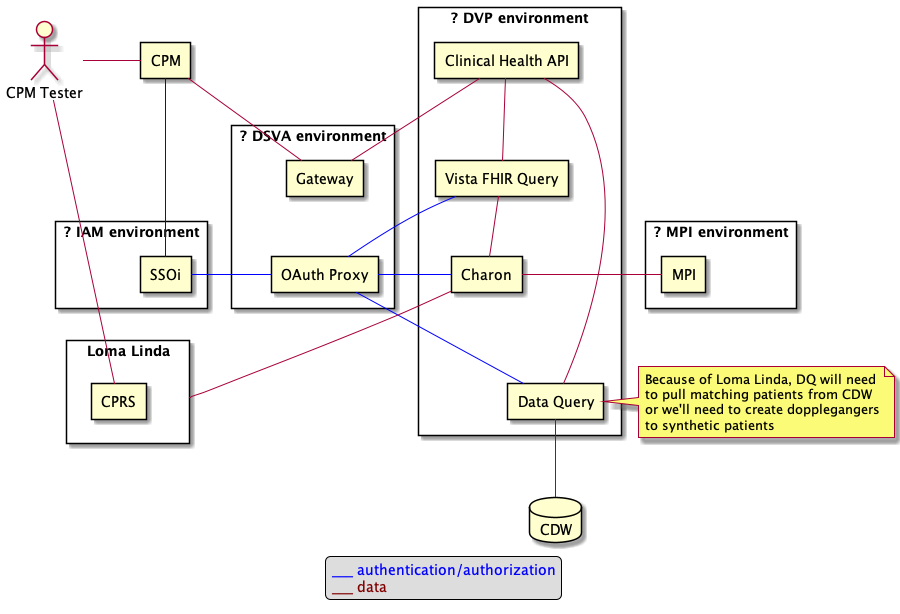
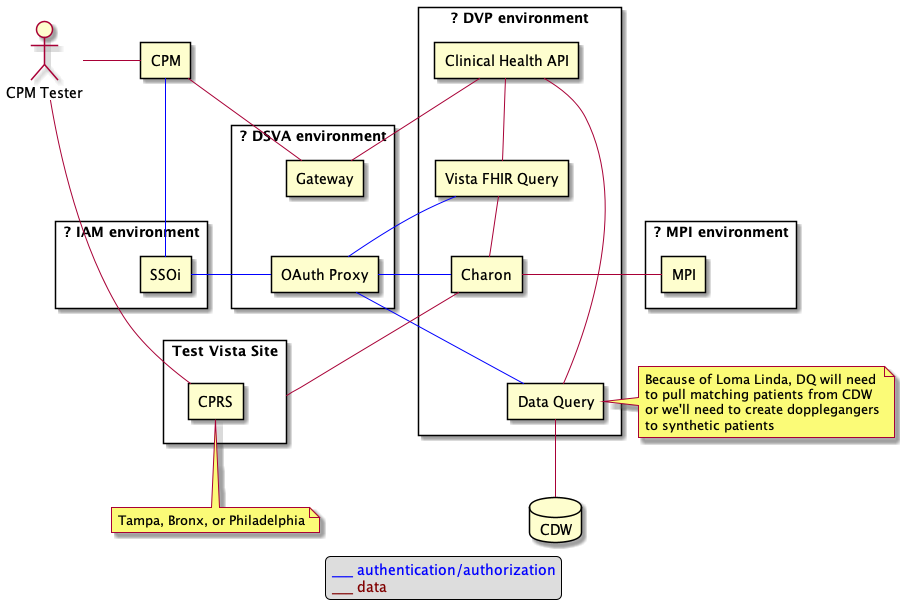
doc updates

diff --git a/environments.md b/environments.md
@@ -1,35 +1,77 @@
-| DSVA                 | DVP         | MPI            | IAM     | Vista        | DQ DB    |
-|----------------------|-------------|----------------|---------|--------------|----------|
-| `dev-api.va.gov`     | QA          | DISABLED (DEV) | INT     | Tampa Docker | CDW      |
-| -                    | UAT         |                | -       | -            | CDW      |
-| -                    | Staging     | Pre-Prod       | -       | Loma Linda   | CDW      |
-| -                    | Staging-Lab | DISABLED (SQA) | -       | Tampa Docker | Synth DB |
-| `staging-api.va.gov` | -           | -              | INT     | -            | -        |
-| `sandbox-api.va.gov` | Lab         | DISABLED (SQA) | PREPROD | Tampa Docker | Synth DB |
-| `api.va.gov`         | Production  | Prod           | PROD    | Loma Linda   | CDW      |
+| DSVA                 | DVP         | MPI            | IAM     | Vista           | DQ DB    |
+|----------------------|-------------|----------------|---------|-----------------|----------|
+| `dev-api.va.gov`     | QA          | DISABLED (DEV) | INT     | Tampa Docker    | CDW      |
+| -                    | UAT         |                | -       | -               | CDW      |
+| -                    | Staging     | Pre-Prod       | -       | Test Vista Site | CDW      |
+| -                    | Staging-Lab | DISABLED (SQA) | -       | Tampa Docker    | Synth DB |
+| `staging-api.va.gov` | -           | -              | INT     | -               | -        |
+| `sandbox-api.va.gov` | Lab         | DISABLED (SQA) | PREPROD | Tampa Docker    | Synth DB |
+| `api.va.gov`         | Production  | Prod           | PROD    | Test Vista Site | CDW      |
 
-### `DISABLED MPI INTERACTION`
+### Test Vista Site
+One of the pilot sites for CPM.
+- (`673`) Tampa, FL
+- (`642`) Philadelphia, PA
+- (`526`) Bronx, NY
+
+
+### Disabled MPI Interaction
 
 Under ideal circumstances, MPI is consulted when searching patient record to determine the Vista instances relevant for
 a particular patient. Environments with _Tampa Docker_ instances for Vista have interaction with MPI disabled. In these
 environments, MPI will not have information on the patient requested, or return Vista sites that are not Tampa resulting
-in no data found. Instead all known vistas are queried, which happens to be the one dockerized Tampa
-instance.
+in no data found. Instead all known vistas are queried, which happens to be the one dockerized Tampa instance.
 
-### `Tampa Docker`
+### Tampa Docker
+
 Environments using the `Tampa Docker` Vista environment are subject the follow characteristics:
+
 - Data set is well known and change controlled
 - No user access to running Vista instances, e.g. no CPRS
 - Limited variability in data, e.g., COVID-19 data is not available
 - Limited patients that do not necessarily match Data Query records
 
-_Vista FHIR Query_, the API in front of Vista data, provides an _Alternate IDs_ capability in lower environments that allows one test patient ID to be mapped to different test patient ID. This provides data compatibility for a limited set of patients across Data Query/Synth DB and Vista FHIR Query/Tampa Docker. 
+_Vista FHIR Query_, the API in front of Vista data, provides an _Alternate IDs_ capability in lower environments that
+allows one test patient ID to be mapped to different test patient ID. This provides data compatibility for a limited set
+of patients across Data Query/Synth DB and Vista FHIR Query/Tampa Docker.
 
-### `dev-api-va.gov`
+External Vista applications like CPRS could potentially be connected to the Tampa Docker by exposing the RPC Broker
+outside of the containing VPC. Deployment changes are required. Ports will need to be opened in the VPC.
+
+### SSOi
+
+- We have a single SSOi test account (`TEST_SKLFORNEW`) in PREPROD (Sandbox) with a valid VistaID, NPI, ICN, etc.
+- **? Is this the _only_ account CPM uses?**
+
+### `dev-api.va.gov`
 
 - No SLA, volatile, subject to breakages
 - Disabled MPI interaction
+- Limited patient set spanning CDW and Tampa Docker
+- SSOi not yet configured to support authorization fields needed by Lighthouse
 
+### `staging-api.va.gov`
 
+- No connectivity from Gateway to Data Query or Vista FHIR Query
+
+### `sandbox-api.va.gov`
+
+- Tampa Docker does not provide access to users to interact with data, e.g. CPM testers cannot add records to Vista.
+- SSOi user with auth-related data does not have matching Practitioner entry in Synth DB.
+
+Making it work (mostly)
+
+- IAM and CPM agree on a test user that is available in both systems associated to `Test Vista Site`
+  - The test users site could be aliased to `Test Vista Site` in Charon API if necessary.
+- Vista patches applied to `Test Vista Site`
+- MPI is still excluded from the equation
+- Update Synth DB to include new Practitioner record for test user
+- Connect Charon API to `Test Vista Site`
+- Create new patients in Synth DB to match up with test patients. Alternative, Doppelgangers could be used if quality is not paramount for patient demographics, diagnoistic reports, etc.
+
+### `api.va.gov`
+
+- Clinical Health APIs not yet deployed
+- SSOi not yet updated
 
 ![environments](src/plantuml/environments.png)
